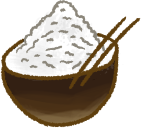
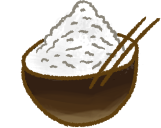
Visually center achievement images

Changed region(s): [[0.0, 0.0, 1.0, 1.0]]

diff --git a/index.html b/index.html
@@ -8,7 +8,7 @@
       content="width=device-width, initial-scale=1, viewport-fit=cover"
     />
     <meta name="theme-color" content="#714634" />
-    <meta name="apple-mobile-web-app-capable" content="yes" />
+    <meta name="mobile-web-app-capable" content="yes" />
     <meta name="apple-mobile-web-app-status-bar-style" content="black-translucent" />
     <script type="module" src="./dist/frontend/main.js"></script>
     <link rel="manifest" href="./manifest.json" />
